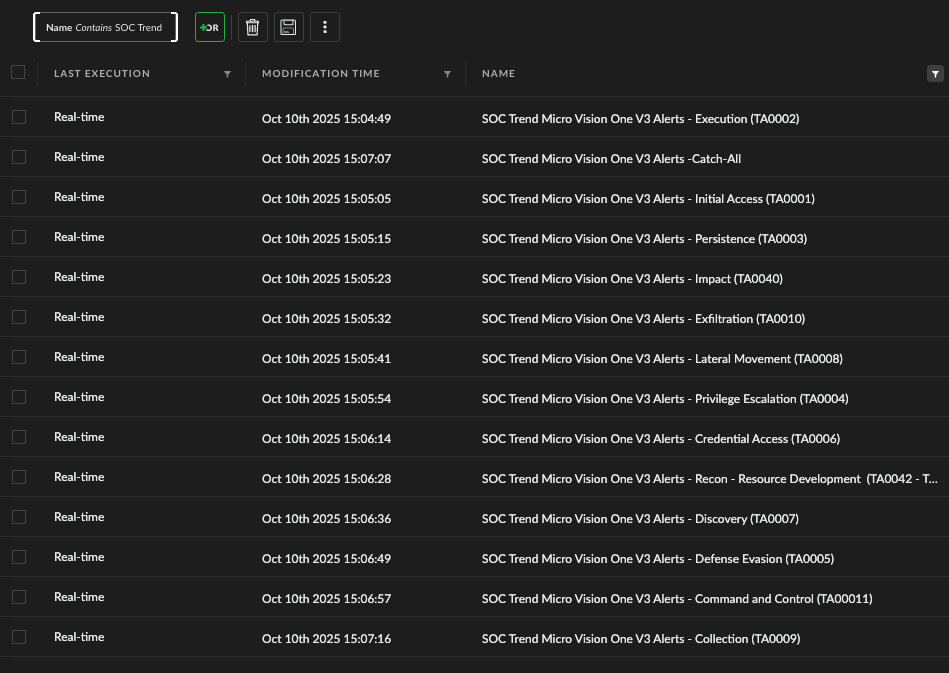
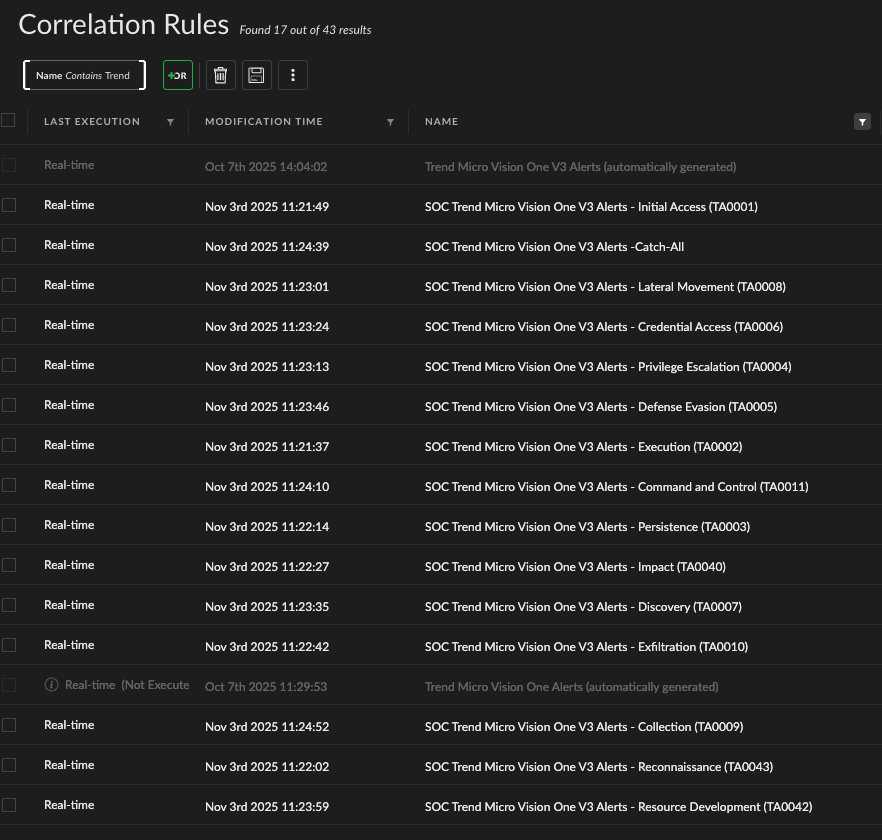
- Update Images and Post Install Doc (#17)

diff --git a/POST_CONFIG_README.md b/POST_CONFIG_README.md
@@ -24,16 +24,13 @@ This enhancement package enables:
 
 To improve analyst efficiency and ensure consistent presentation of Vision One data:
 
-Go To: **Settings → Configurations → Object Setup → Layout Rules**
+Go To: **Settings → Configurations → Object Setup → Issues → Layout Rules**
 
 - **Rule Name:** `Trend Micro Vision One Alert Layout`
-- **Entity Type:** Alert
 - **Filter Criteria:**
-  - Alert Source: Equals `Trend Micro Vision One`
-- **Action:**
-  - Assign a custom alert layout optimized for Vision One alert data
-
-> This layout should surface key fields such as `Alert ID`, `Severity`, `Category`, `Host`, `User`, and `Detection Time`.
+  - Alert Source: Equals `Tags: DS:Trend Micro Vision One V3`
+- **Layout To Display:**
+  - Layout: Equals `SOC Trend Micro Vision One IR`
 
 #### 🖼 Layout Rule Visualization
 
@@ -49,28 +46,9 @@ Enable correlation rules that group Vision One alerts into incidents based on th
 
 Go To: **Detection & Correlation → Correlation Rules**
 
-Enable the following rules:
+Enable the following rules (Disable any default rules from Integration Install):
 
 ![Vision One Layout Rules](images/TrendVisionCorrelations.png)
-
-#### 🖼 Correlation Rules Visualization
-
-![Trend Micro Vision One Correlation Rules](https://github.com/Palo-Cortex/images/TrendVisionCorrelations.png)
-
-> Vision One alerts are organized by MITRE tactic to streamline triage and incident response.
-
----
-
-### Step 3: Enable No MITRE Tactic Correlation Rule
-
-Some Vision One alerts may not include a MITRE mapping. Enable the fallback rule to ensure these are still grouped efficiently.
-
-- **Rule Name:** `Trend Micro Vision One – No MITRE Tactic`
-- **Logic:**
-  - `tactic` is null or missing
-  - Group by fields such as `Alert ID`, `Host`, or `User`
-
-> This ensures all alerts, even those without a defined tactic, are grouped for triage and analysis.
 
 ---
 
@@ -83,21 +61,6 @@ These configurations align directly with the **XSIAM FieldOps Model** and **SOC 
 | Transformation         | Consistent, enriched layouts for all Vision One alerts            |
 | Risk & Resiliency      | MITRE mapping improves visibility and detection coverage          |
 | Automation & Efficacy  | Correlation reduces alert fatigue and improves investigation speed |
-
----
-
-## 🧪 Validation Tips
-
-- Simulate Vision One alerts across multiple tactics to validate correlation rules
-- Confirm the custom layout applies only to Vision One alerts
-- Check incident grouping logic under **Incidents → Recent Activity**
-- Review dashboards such as **SOC Value Metrics** and **Vision One Overview** for populated metrics
-
-## 🧩 Dependencies
-
-- Custom Alert Layout (JSON layout file included in pack)
-- SOC Optimization Framework (for scoring, enrichment, and triage workflows)
-- SOC Common Playbooks (for enrichment and normalization consistency)
 
 ---
 
